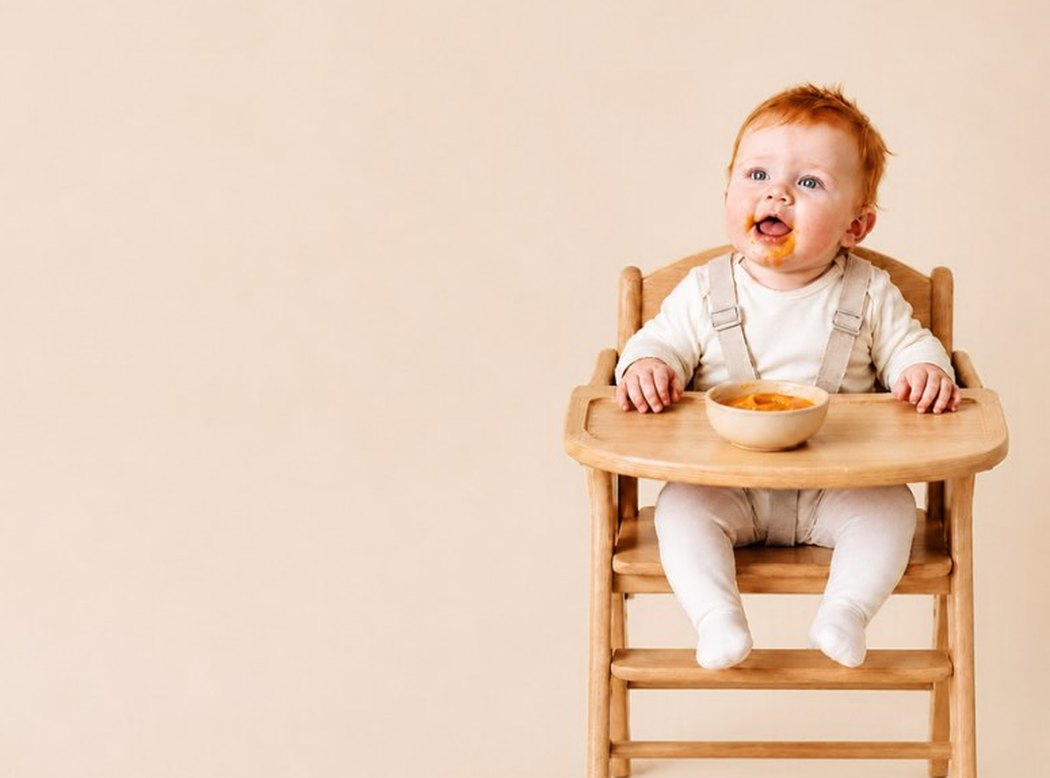
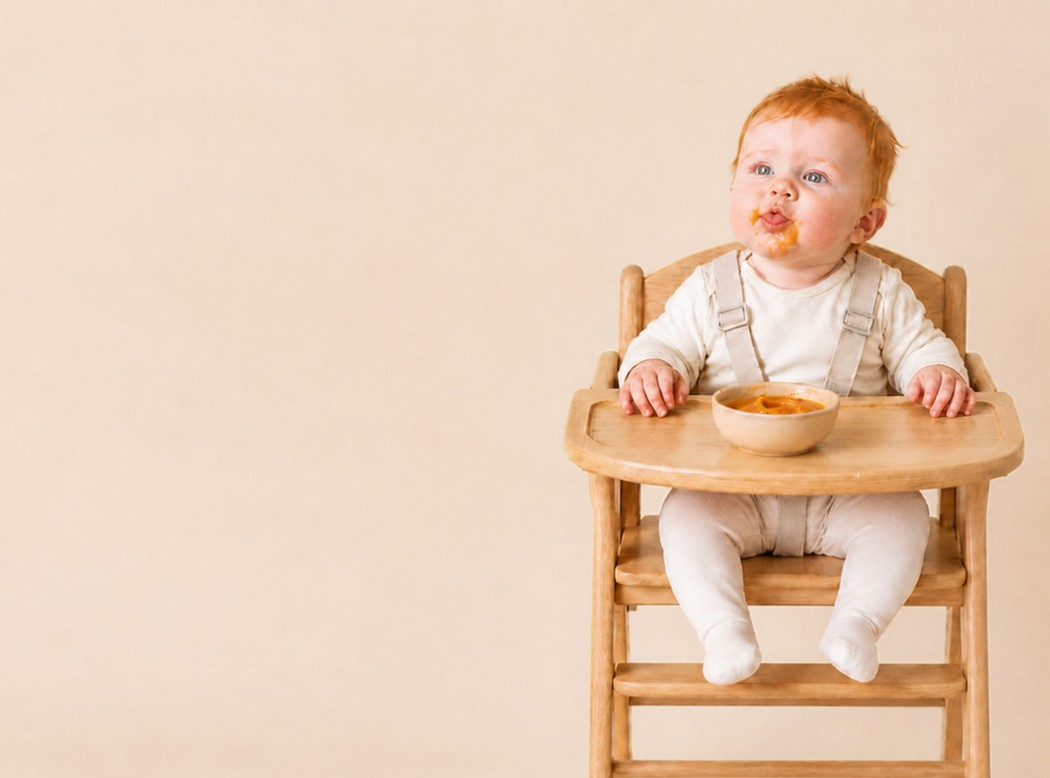
Feeding top card: Try this in its own panel; age range under every stage name; new Newborn, Ready for solids and First foods photos; cue-based milk tip; softer milk timing
Claude-Session: https://claude.ai/code/session_01SSLJSJdmvqefnhBadk2njA

Changed region(s): [[0.5486, 0.0925, 0.9752, 1.0]]

diff --git a/js/feed-mock2.js b/js/feed-mock2.js
@@ -3115,13 +3115,16 @@
     2: ['distracted-bottle', 'A baby turning away from the bottle mid-feed to look around'] };
   // Nov 19 (Yarden): one top card. The photo carries what you might notice as labels on the picture; the lead says why;
   // one thing to try closes the card. [photo, title, lead, try]
+  // Nov 20 (reviewer: the two "Milk feeds" cards read as the same stage). Every label carries its age range, like Safety's
+  // "Rolling · 3–6 months".
+  const EYE = (n, base) => (base || '') + '<span class="fd-age">' + ['0–6 weeks', '6 weeks–3 months', '3 months+', ageMo() >= 7 ? '6 months+' : 'Around 6 months', 'First few weeks', '7 months+', '9 months+'][n] + '</span>';
   const DISC = () => { const v = stg(), m = ageMo(), bot = isBottle() && !nurses();
     if (v === 0) return [0, 'Feeds come often', 'His stomach is tiny. Evenings are busiest, and it eases by 6–8 weeks.', 'Feed him when you see early cues, before he cries.'];
-    if (v === 1 && m < 3) return [1, 'He’s getting good at this', 'Feeds get quicker from about 6 weeks. That’s not less milk.', bot ? 'Let him end the feed, even if milk is left in the bottle.' : 'Let him end the feed, even if it’s sooner than usual.'];
+    if (v === 1 && m < 3) return [1, 'He’s getting good at this', 'Over the first few months, feeds get quicker. That’s not less milk.', 'Let him stop when he shows he’s full: slowing down, turning away, relaxed hands.'];
     if (v === 1) return [2, 'The world is interrupting his feeds', 'He notices everything. Distracted isn’t the same as full.', 'Feed somewhere quiet and dim, and offer again after a short pause.'];
     if (v === 2 && m >= 7) return [3, 'A good time to start', 'Iron matters more after 6 months. Bring your feeding questions to the checkup.', 'If he sits with support and swallows well, offer a soft, iron-rich food once a day.'];
     if (v === 2) return [3, 'Eating starts before the first bite', 'He’s watching, reaching, and learning what food is for.', 'Let him join you at meals and watch you eat.'];
-    if (v === 3 && m < 7.5) return [4, 'His tongue has a new job', 'Food coming back out is practice, not dislike.', 'Offer the same food a few days in a row, and watch him get better at it.'];
+    if (v === 3 && m < 7.5) return [4, 'His tongue has a new job', 'Food coming back out is practice, not dislike.', 'Offer small tastes, no pressure, and try the same food again over a few days.'];
     if (v === 3) return [5, 'Lumps are a big leap', 'Gagging on new textures is normal. It happens less with practice.', 'When he gags, stay calm and let him work it out.'];
     return [6, 'The mess is the milestone', 'Squishing and dropping food is how he practices.', 'Eat with him when you can, so he can copy you.']; };
   // Nov 19 (Yarden: labels covered the picture). Each dot sits beside the thing it names, never on it, and its label runs
@@ -3144,15 +3147,15 @@
   const discCss = `<style>#main .fd-hero.fd-disc{display:flex;flex-direction:column;min-height:463px;box-sizing:border-box}#main .fd-hero.fd-disc .fd-art{flex:1}#main .fd-hero .fd-art{display:grid;place-items:center;margin:6px -8px 6px}#main .fd-hero .fd-art svg{width:100%;max-width:290px;height:auto;filter:drop-shadow(0 9px 9px #754b5b18)}#main .fd-aha{background:#fffdfc;border-radius:16px;padding:14px 16px;box-shadow:0 3px 14px #a6798220;margin-top:2px}#main .fd-aha small{display:block;font-size:11px;font-weight:800;letter-spacing:.08em;color:#b87c8f;text-transform:uppercase;margin-bottom:5px}#main .fd-aha b{display:block;font-size:17px;line-height:1.25;color:var(--ink,#2b2732)}#main .fd-aha span{display:block;font-size:14px;line-height:1.45;color:#6d666d;margin-top:5px}#main .fd-try{display:flex;gap:12px;align-items:flex-start;margin:12px 0 4px;border-radius:16px;background:#e5f0e6;padding:14px 16px}#main .fd-try i{flex:none;width:32px;height:32px;border-radius:11px;background:#d0e3d2;color:#487456;display:grid;place-items:center}#main .fd-try small{display:block;font-size:11px;font-weight:800;letter-spacing:.08em;color:#5c7e67;text-transform:uppercase;margin:1px 0 4px}#main .fd-try p{margin:0;font-size:14.5px;line-height:1.45;color:#42634c;font-weight:550}</style>`;
   P.dirD = (() => { const prev = P.dirD; return (v) => { const h = prev(v); const a = h.indexOf('<header class="hub-hero fd-hero">'), e = h.indexOf('</header>', a); if (a < 0 || e < 0) return h;
     const head = h.slice(a, e), m = head.match(/<p class="hub-eyebrow">([^<]*)<\/p>/); if (!m) return h;
-    const [n, title, lead, tryT] = DISC(), ph = FD_PHOTO[n], wide = ph && /^(textures|fh)/.test(ph[0]);
+    const [n, title, lead, tryT] = DISC(), eye = EYE(n, m[1]), ph = FD_PHOTO[n], wide = ph && /^(textures|fh)/.test(ph[0]);
     const pic = ph && !window.__fdPhotoOff ? heroPhoto(ph[0], ph[1], DISC_PINS[ph[0]], wide) : `<div class="fd-art" aria-hidden="true"><svg viewBox="0 0 320 165" fill="none">${DISC_BASE}${DISC_ART[n]}</svg></div>`;
     const tryIn = `<div class="fd-try fd-try-in"><i aria-hidden="true"><svg width="22" height="22" viewBox="0 0 24 24" fill="none" stroke="currentColor" stroke-width="1.8" stroke-linecap="round" stroke-linejoin="round"><path d="M9 18h6M10 21h4M12 3a6 6 0 0 0-3.6 10.8c.6.5 1 1.2 1 2V16h5.2v-.2c0-.8.4-1.5 1-2A6 6 0 0 0 12 3Z"/></svg></i><p><b>${F('Try this:')}</b> ${F(tryT)}</p></div>`;
     // Nov 20 (Yarden): the photo's empty cream side holds the words, like the inspiration's tiles. The baby sits on the
     // right; the photo is multiplied onto the card's color so its cream becomes the card. No labels on these.
     const split = ph && FD_SPLIT[n] && !window.__fdPhotoOff;
     const hero = split
-      ? `<header class="hub-hero fd-hero fd-disc fd-one fd-split"><div class="fd-split-top"><img class="fd-split-img" src="assets/feeding/${FD_SPLIT[n]}.jpg" alt="${F(ph[1])}"><div class="fd-split-copy"><p class="hub-eyebrow">${m[1]}</p><h1>${F(title)}</h1><p class="hub-lead">${F(lead)}</p></div></div>${tryIn}`
-      : `<header class="hub-hero fd-hero fd-disc fd-one"><p class="hub-eyebrow">${m[1]}</p><h1>${F(title)}</h1><p class="hub-lead">${F(lead)}</p>${pic}${tryIn}`;
+      ? `<header class="hub-hero fd-hero fd-disc fd-one fd-split"><div class="fd-split-top"><img class="fd-split-img" src="assets/feeding/${FD_SPLIT[n]}.jpg?v=1120p" alt="${F(ph[1])}"><div class="fd-split-copy"><p class="hub-eyebrow">${eye}</p><h1>${F(title)}</h1><p class="hub-lead">${F(lead)}</p></div></div>${tryIn}`
+      : `<header class="hub-hero fd-hero fd-disc fd-one"><p class="hub-eyebrow">${eye}</p><h1>${F(title)}</h1><p class="hub-lead">${F(lead)}</p>${pic}${tryIn}`;
     const tryCard = '';
     return h.slice(0, a) + discCss + hero + '</header>' + tryCard + h.slice(e + 9); }; })();
 

diff --git a/index.html b/index.html
@@ -12,7 +12,7 @@
 <link rel="stylesheet" href="css/sleep-sub-look.css">
 <link rel="stylesheet" href="css/health-look.css?v=1113e">
 <link rel="stylesheet" href="css/safety-look.css?v=1118s">
-<link rel="stylesheet" href="css/photos.css?v=1120k">
+<link rel="stylesheet" href="css/photos.css?v=1120p">
 <link rel="stylesheet" href="css/outings-look.css?v=1113e">
 <link rel="stylesheet" href="css/childcare-look.css"><link rel="stylesheet" href="css/care-card.css">
 <link rel="stylesheet" href="css/care-v2.css?v=1117x">
@@ -53,7 +53,7 @@
 <script src="js/care-art.js?v=1113g"></script>
 <script src="js/care-v2.js?v=1119zi"></script>
 <script src="js/cat-icons.js"></script>
-<script src="js/year-ahead-art.js"></script><script src="js/year-ahead.js?v=1117q"></script><script src="js/profile-v2.js?v=1113e"></script><script src="js/stages-nav.js?v=1119p"></script><script src="js/feed-mock2.js?v=1120k"></script><script src="js/feed-templates.js?v=1119zj"></script><script src="js/home-copy.js?v=1119zj"></script><script src="js/home-cards.js?v=1119zj"></script><script src="js/home-glance.js?v=1118c"></script>
+<script src="js/year-ahead-art.js"></script><script src="js/year-ahead.js?v=1117q"></script><script src="js/profile-v2.js?v=1113e"></script><script src="js/stages-nav.js?v=1119p"></script><script src="js/feed-mock2.js?v=1120p"></script><script src="js/feed-templates.js?v=1119zj"></script><script src="js/home-copy.js?v=1119zj"></script><script src="js/home-cards.js?v=1119zj"></script><script src="js/home-glance.js?v=1118c"></script>
 <script src="js/feed-photos.js?v=1119zj"></script><script src="js/search-index.js?v=1114q"></script><script src="js/cohesion.js?v=1114v"></script><script src="js/they-grammar.js"></script><script src="js/month-story.js"></script><script src="js/boot.js"></script>
 </body>
 </html>

diff --git a/css/photos.css b/css/photos.css
@@ -280,3 +280,9 @@
 #main .fd-split .fd-split-copy h1 { font-size: clamp(20px, 5.6vw, 23px); line-height: 1.16; margin: 6px 0 8px }
 #main .fd-split .fd-split-copy .hub-lead { font-size: 14px; line-height: 1.4; margin: 0 }
 #main .fd-split .fd-try.fd-try-in { margin-top: 4px; padding-top: 10px }
+
+/* Nov 20: the age range sits on its own line under the stage name, so it never breaks mid-range in the narrow column. */
+#main .fd-hero .hub-eyebrow .fd-age { display: block; margin-top: 3px; text-transform: none; letter-spacing: 0; font-weight: 600; font-size: 12.5px; opacity: .8; white-space: nowrap }
+/* Nov 20 (Yarden: "should try this be in a container?"): yes, a soft panel like Sleep's tip, so the action reads apart from the explanation. */
+#main .fd-hero .fd-try.fd-try-in { background: rgba(255,255,255,.66); border-radius: 16px; padding: 12px 14px; align-items: flex-start; box-shadow: 0 2px 10px #a6798214 }
+#main .fd-split .fd-try.fd-try-in { margin-top: 2px; padding-top: 12px }
